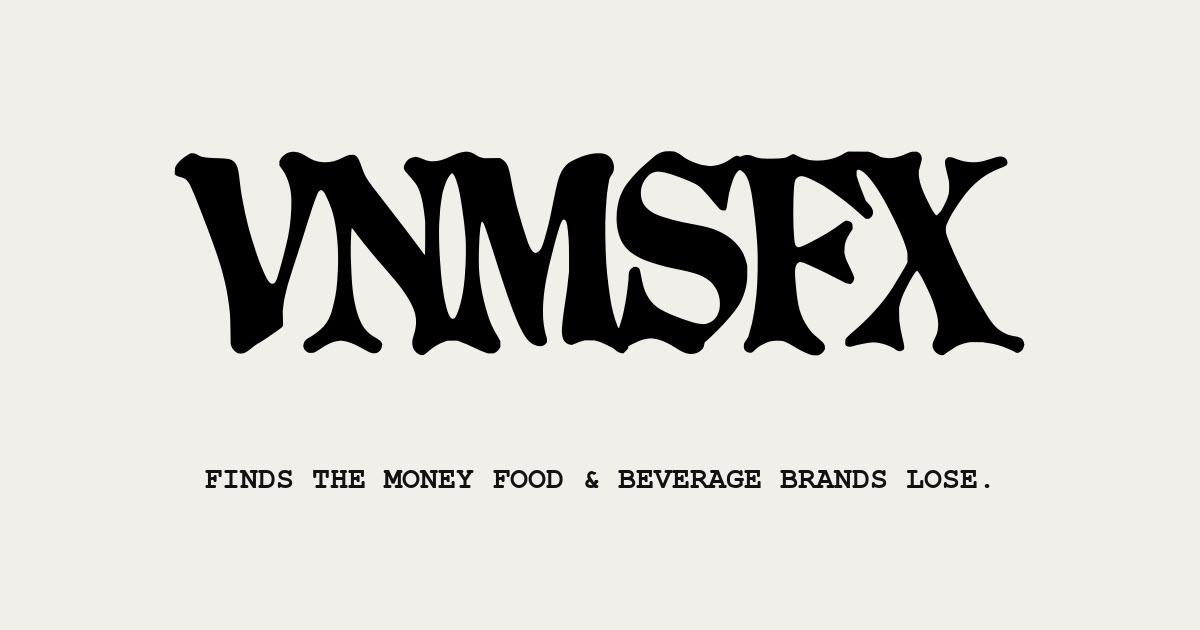
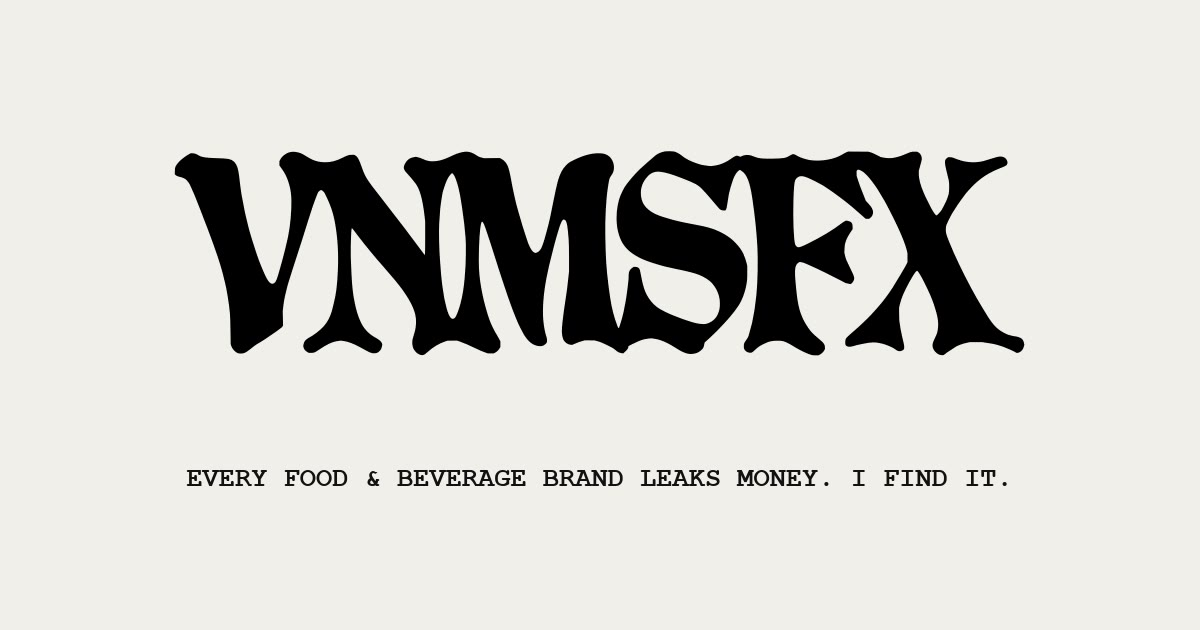
Dominant claim ships: tagline 'Every food & beverage brand leaks money. I find it.', standfirst 'Your best seller, mid-leak' + CPG lineup line; OG card regenerated with new claim; CPG added across description, JSON-LD knowsAbout, llms.txt

Changed region(s): [[0.1542, 0.7238, 0.8325, 0.7841]]

diff --git a/index.html b/index.html
@@ -4,9 +4,9 @@
 <meta charset="utf-8">
 <meta name="viewport" content="width=device-width, initial-scale=1">
 <title>AI Systems for Food & Beverage Brands | VNMSFX New York</title>
-<meta name="description" content="VNMSFX finds the money food & beverage brands lose: true margin by SKU, distributor deductions, quiet churn. One AI system, wired to your tools. Built once, yours to keep.">
+<meta name="description" content="VNMSFX finds the money food & beverage (CPG) brands lose: true margin by SKU, distributor deductions, quiet churn. One AI system, wired to your tools. Built once, yours to keep.">
 <script type="application/ld+json">
-{"@context":"https://schema.org","@type":"ProfessionalService","name":"VNMSFX","legalName":"VNMSFX LLC","url":"https://vnmsfx.com","email":"brandon@vnmsfx.com","image":"https://vnmsfx.com/og.jpg","logo":"https://vnmsfx.com/assets/logo.svg","slogan":"Finds the money food & beverage brands lose.","founder":{"@type":"Person","name":"Brandon Adams","sameAs":"https://www.linkedin.com/in/brandonalexanderadams/"},"areaServed":"New York, NY","priceRange":"$2,500 - $17,500","sameAs":["https://www.linkedin.com/in/brandonalexanderadams/","https://cal.com/vnmsfx/30min"],"description":"AI systems consultant for food and beverage brands. Finds the money brands lose — true margin by SKU, distributor deductions, quiet churn — with one system wired to Shopify, QuickBooks, HubSpot, Notion and email. Built once, owned by the client.","knowsAbout":["AI systems integration","food and beverage operations","margin by SKU","distributor deductions","trade spend","customer churn","Claude","ChatGPT","Shopify","QuickBooks"],"makesOffer":{"@type":"OfferCatalog","name":"Engagements","itemListElement":[{"@type":"Offer","name":"Free teardown","price":"0","priceCurrency":"USD","description":"30 minutes. You show me where things live; I name two leaks I'd go after first."},{"@type":"Offer","name":"The leak audit","price":"2500","priceCurrency":"USD","description":"A week inside your numbers. Credited toward the build."},{"@type":"Offer","name":"The build","description":"$5,000/mo for 3 months. Each piece answers a question you can't answer today."},{"@type":"Offer","name":"The partnership","description":"$1,500/mo after the build, optional."}]}}
+{"@context":"https://schema.org","@type":"ProfessionalService","name":"VNMSFX","legalName":"VNMSFX LLC","url":"https://vnmsfx.com","email":"brandon@vnmsfx.com","image":"https://vnmsfx.com/og.jpg","logo":"https://vnmsfx.com/assets/logo.svg","slogan":"Finds the money food & beverage brands lose.","founder":{"@type":"Person","name":"Brandon Adams","sameAs":"https://www.linkedin.com/in/brandonalexanderadams/"},"areaServed":"New York, NY","priceRange":"$2,500 - $17,500","sameAs":["https://www.linkedin.com/in/brandonalexanderadams/","https://cal.com/vnmsfx/30min"],"description":"AI systems consultant for food and beverage (CPG) brands. Finds the money brands lose — true margin by SKU, distributor deductions, quiet churn — with one system wired to Shopify, QuickBooks, HubSpot, Notion and email. Built once, owned by the client.","knowsAbout":["CPG","consumer packaged goods","AI systems integration","food and beverage operations","margin by SKU","distributor deductions","trade spend","customer churn","Claude","ChatGPT","Shopify","QuickBooks"],"makesOffer":{"@type":"OfferCatalog","name":"Engagements","itemListElement":[{"@type":"Offer","name":"Free teardown","price":"0","priceCurrency":"USD","description":"30 minutes. You show me where things live; I name two leaks I'd go after first."},{"@type":"Offer","name":"The leak audit","price":"2500","priceCurrency":"USD","description":"A week inside your numbers. Credited toward the build."},{"@type":"Offer","name":"The build","description":"$5,000/mo for 3 months. Each piece answers a question you can't answer today."},{"@type":"Offer","name":"The partnership","description":"$1,500/mo after the build, optional."}]}}
 </script>
 <script type="application/ld+json">
 {"@context":"https://schema.org","@type":"FAQPage","mainEntity":[
@@ -25,15 +25,15 @@
 <meta property="og:type" content="website">
 <meta property="og:url" content="https://vnmsfx.com/">
 <meta property="og:site_name" content="VNMSFX">
-<meta property="og:title" content="VNMSFX — finds the money food &amp; beverage brands lose.">
-<meta property="og:description" content="VNMSFX finds the money food & beverage brands lose: true margin by SKU, distributor deductions, quiet churn. One AI system, wired to your tools. Built once, yours to keep.">
+<meta property="og:title" content="Every food &amp; beverage brand leaks money. VNMSFX finds it.">
+<meta property="og:description" content="VNMSFX finds the money food & beverage (CPG) brands lose: true margin by SKU, distributor deductions, quiet churn. One AI system, wired to your tools. Built once, yours to keep.">
 <meta property="og:image" content="https://vnmsfx.com/og.jpg">
 <meta property="og:image:width" content="1200">
 <meta property="og:image:height" content="630">
-<meta property="og:image:alt" content="VNMSFX — finds the money food and beverage brands lose">
+<meta property="og:image:alt" content="Every food and beverage brand leaks money. VNMSFX finds it.">
 <meta name="twitter:card" content="summary_large_image">
-<meta name="twitter:title" content="VNMSFX — finds the money food &amp; beverage brands lose.">
-<meta name="twitter:description" content="VNMSFX finds the money food & beverage brands lose: true margin by SKU, distributor deductions, quiet churn. One AI system, wired to your tools. Built once, yours to keep.">
+<meta name="twitter:title" content="Every food &amp; beverage brand leaks money. VNMSFX finds it.">
+<meta name="twitter:description" content="VNMSFX finds the money food & beverage (CPG) brands lose: true margin by SKU, distributor deductions, quiet churn. One AI system, wired to your tools. Built once, yours to keep.">
 <meta name="twitter:image" content="https://vnmsfx.com/og.jpg">
 <link rel="icon" type="image/png" sizes="32x32" href="assets/favicon-32.png">
 <link rel="icon" type="image/png" sizes="16x16" href="assets/favicon-16.png">
@@ -220,7 +220,7 @@ footer{padding:38px 0 54px;display:flex;justify-content:space-between;gap:16px;f
         </video>
       </div>
       <img src="assets/logo.svg" alt="VNMSFX">
-      <p class="tag">Finds the money food &amp; beverage brands lose.</p>
+      <p class="tag">Every food &amp; beverage brand leaks money. I&nbsp;find&nbsp;it.</p>
     </div>
     <div class="canwrap">
       <video autoplay muted loop playsinline poster="3D/poster-cantoss.jpg">
@@ -232,7 +232,7 @@ footer{padding:38px 0 54px;display:flex;justify-content:space-between;gap:16px;f
         <source src="3D/orb-cantoss.mp4" type="video/mp4">
       </video>
     </div>
-    <p class="stand"><span>Meet your best seller. It might be costing you more than it&nbsp;makes.</span>I build food &amp; beverage brands the AI system that finds out. Built once, yours to&nbsp;keep.</p>
+    <p class="stand"><span>Your best seller, mid-leak.</span>Every CPG lineup has one. I build the AI system that finds yours. Built once, yours to&nbsp;keep.</p>
     <div class="panel">
       <img class="panel-media" src="assets/podium.jpg" alt="A best-seller can on a first-place podium, quietly leaking down its side">
       <div class="hcopy">
